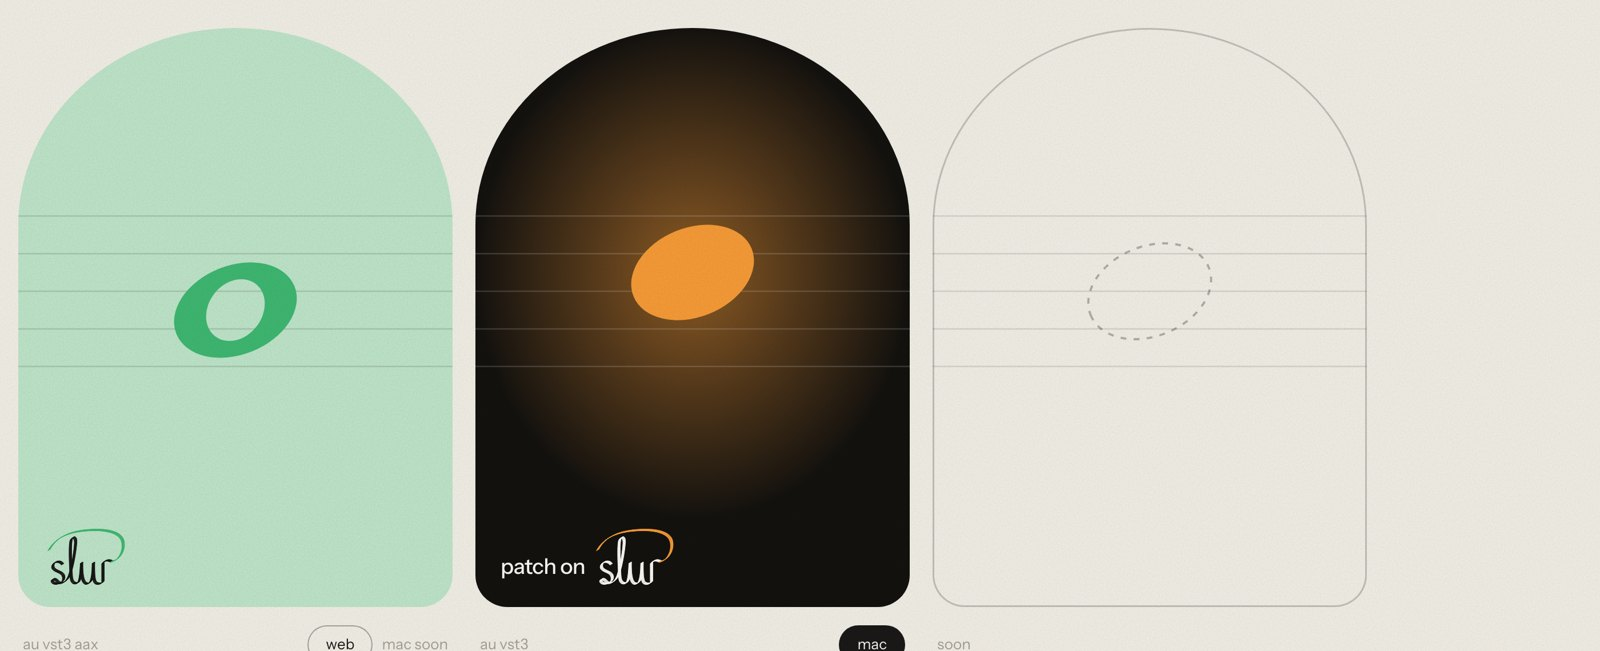
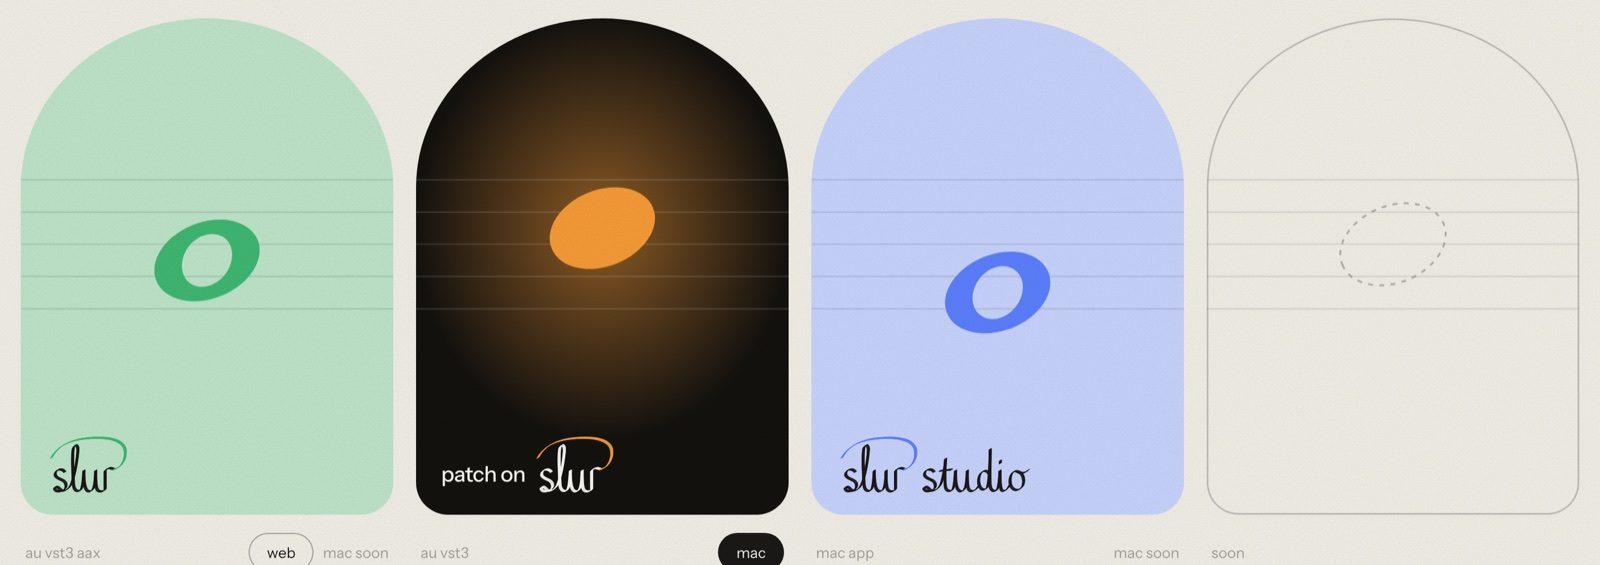
feat(web): slur studio, the third program — on the cover, in the menu and on the downloads shelf
The daw is introduced before the door: a page of the cover (the song, thirty
tracks), a cell in the pictogram menu (the staff and its blue whole note, as
the app's icon draws it), a fourth arch on the shelf and an introduction of
its own under the other two (the window, an index of plain facts, the six
region outlines). Its name is written in the house's hand: "studio" is
lettered new, beside "slur" (SlurMark studio).

The shelf's four arches spread evenly across the page, growing with it up to
480 wide; five cells in the menu give way in steps on narrower windows.

diff --git a/apps/web/app/slur.css b/apps/web/app/slur.css
@@ -133,7 +133,8 @@ html:has(.sl-one), html:has(.sl-one) body { height: 100%; overflow: hidden; over
 /* ── downloads ── */
 .sl-page { padding: 56px 36px 120px; }
 .sl-page h1 { font-size: clamp(56px, 9vw, 132px); font-weight: 500; letter-spacing: -0.045em; line-height: .9; margin-bottom: 56px; }
-.sl-shelf { display: grid; grid-template-columns: repeat(3, minmax(0, 1fr)); gap: 20px; max-width: 1180px; }
+/* four arches across the whole page: they grow with it, and past their largest the room between them does */
+.sl-shelf { display: grid; grid-template-columns: repeat(4, minmax(0, 480px)); justify-content: space-between; gap: 20px; }
 .sl-arch-tile { position: relative; aspect-ratio: 3 / 4; border-radius: 50% 50% 28px 28px / 34% 34% 28px 28px; overflow: hidden; }
 .sl-arch-tile > svg { position: absolute; inset: 0; width: 100%; height: 100%; }
 .sl-arch-tile.next { box-shadow: inset 0 0 0 1.5px rgba(26,25,23,.22); }
@@ -147,7 +148,7 @@ html:has(.sl-one), html:has(.sl-one) body { height: 100%; overflow: hidden; over
 .sl-foot-row.plain { margin: 0; padding: 22px 36px 28px; color: var(--sl-t3); }
 .sl-foot-row.plain a:hover { color: var(--sl-ink); }
 
-@media (max-width: 1000px) { .sl-shelf { grid-template-columns: repeat(2, minmax(0, 1fr)); } }
+@media (max-width: 1100px) { .sl-shelf { grid-template-columns: repeat(2, minmax(0, 1fr)); } }
 @media (max-width: 820px) {
   .sl-top { padding: 0 18px; padding-top: env(safe-area-inset-top); }
     .sl-arch { margin-top: -60px; border-radius: 50% 50% 0 0 / 64px 64px 0 0; }
@@ -168,9 +169,13 @@ html:has(.sl-one), html:has(.sl-one) body { height: 100%; overflow: hidden; over
 .sl-wall { display: block; width: 100%; height: auto; aspect-ratio: 1200 / 520; max-height: 560px;
   /* the lamps fade into the night instead of stopping at the picture's edge */
   -webkit-mask-image: radial-gradient(ellipse 62% 58% at 50% 50%, #000 62%, transparent 100%); mask-image: radial-gradient(ellipse 62% 58% at 50% 50%, #000 62%, transparent 100%); }
+/* slur studio, as it stands on the screen: the picture of a window, the size the room's is */
+.sl-shot { font-size: clamp(4.2px, .86vw, 12.4px); width: 82em; border-radius: 1.3em; overflow: hidden; background: #0E0E0E; box-shadow: 0 3em 6em -3em rgba(24,34,96,.6), 0 0 0 .08em rgba(26,25,23,.3); }
+.sl-shot img { display: block; width: 100%; height: auto; aspect-ratio: 1120 / 610; }
 .sl-about-body { max-width: 1180px; margin: 0 auto; display: grid; grid-template-columns: minmax(0, 5fr) minmax(0, 7fr); gap: 48px; align-items: start; }
 .sl-about-name { display: flex; flex-direction: column; gap: 22px; }
 .sl-about-name svg { width: min(300px, 70vw) !important; height: auto !important; }
+.sl-about-name svg.sl-two { width: min(430px, 82vw) !important; }      /* two words in the hand: wider, so the letters keep a size near the others' */
 .sl-lede-row { display: flex; align-items: flex-end; gap: 12px; font-size: clamp(28px, 3vw, 40px); font-weight: 500; letter-spacing: -0.03em; }
 .sl-lede-row span { padding-bottom: 18px; white-space: nowrap; }
 .sl-lede-row svg { width: min(240px, 50vw) !important; }
@@ -188,9 +193,12 @@ html:has(.sl-one), html:has(.sl-one) body { height: 100%; overflow: hidden; over
 .sl-families svg { margin-bottom: 8px; }
 .sl-families b { font-size: 14px; font-weight: 600; }
 .sl-families span { font-size: 12.5px; line-height: 1.5; opacity: .55; }
+.sl-families.six { grid-template-columns: repeat(6, minmax(0, 1fr)); }
+.sl-families.six svg { width: 100%; max-width: 150px; height: auto; }
 @media (max-width: 1000px) {
   .sl-about-body { grid-template-columns: minmax(0, 1fr); gap: 32px; }
   .sl-families { grid-template-columns: repeat(4, minmax(0, 1fr)); row-gap: 28px; }
+  .sl-families.six { grid-template-columns: repeat(3, minmax(0, 1fr)); }
 }
 @media (max-width: 820px) {
   .sl-about { padding: 90px 16px 110px; }
@@ -198,7 +206,7 @@ html:has(.sl-one), html:has(.sl-one) body { height: 100%; overflow: hidden; over
   .sl-about.dark .sl-about-pic { margin: -20px -16px 32px; }
   .sl-about-pic { margin-bottom: 40px; }
   .sl-index li { grid-template-columns: 110px minmax(0, 1fr); font-size: 14px; }
-  .sl-families { grid-template-columns: repeat(2, minmax(0, 1fr)); }
+  .sl-families, .sl-families.six { grid-template-columns: repeat(2, minmax(0, 1fr)); }
 }
 
 /* ── the first screen: the cover ── */
@@ -207,6 +215,7 @@ html:has(.sl-one), html:has(.sl-one) body { height: 100%; overflow: hidden; over
 .sl-cell svg { flex: none; display: block; }
 .sl-cell b { display: block; font-size: 14px; font-weight: 500; letter-spacing: -0.01em; line-height: 1.25; }
 .sl-cell small { display: block; font-size: 11.5px; color: var(--sl-t3); line-height: 1.35; margin-top: 1px; }
+.sl-cell b, .sl-cell small { white-space: nowrap; }
 .sl-cell:hover b, .sl-cell.here b { text-decoration: underline; text-underline-offset: 3px; text-decoration-thickness: 1px; }
 
 .sl:has(.sl-cover) { background: #E9E7E1; }   /* the landing's ground is the cover's, so the arch below meets it cleanly */
@@ -227,6 +236,7 @@ html:has(.sl-one), html:has(.sl-one) body { height: 100%; overflow: hidden; over
 .sl-print-page > img, .sl-print-page > svg { position: absolute; inset: 0; width: 100%; height: 100%; object-fit: cover; display: block; }
 .sl-print-page.night { background: #0D0C0B; }
 .sl-print-page.mint { background: var(--sl-mint); }
+.sl-print-page.black { background: #0E0E0E; }
 .sl-print-page.paper { background: #EDEAE2; }
 .sl-print-page.paper > img { object-fit: contain; }
 .sl-print-page .sl-win { font-size: .96cqw; }
@@ -237,6 +247,9 @@ html:has(.sl-one), html:has(.sl-one) body { height: 100%; overflow: hidden; over
 @media (prefers-reduced-motion: reduce) { .sl-floor-in { animation: none; } .sl .sl-print { animation: none; } }
 
 
+/* five cells in the row: the caption's second line gives way first, then the cells' quiet lines */
+@media (max-width: 1280px) { .sl-cover-cap { white-space: nowrap; } .sl-cover-cap i { display: none; } }
+@media (max-width: 960px) { .sl-cells { gap: 22px; } .sl-cell small { display: none; } .sl .sl-cell { align-items: center; } }
 @media (max-width: 820px) {
   .sl-cover-top { padding: 16px 16px 0; padding-top: calc(16px + env(safe-area-inset-top)); }
   .sl-cells .hide-narrow { display: none; }

diff --git a/apps/web/components/slur/Downloads.tsx b/apps/web/components/slur/Downloads.tsx
@@ -2,13 +2,13 @@
 
 import { useEffect, useState } from 'react'
 import SlurMark from './SlurMark'
-import { C, FAMILIES, ellipsePath, hz, play, wholeNotePath } from './marks'
+import { C, FAMILIES, OUTLINES, ellipsePath, hz, play, wholeNotePath } from './marks'
 import RoomPicture from './RoomPicture'
 import PictoNav from './PictoNav'
 import WallPicture from './WallPicture'
 import '@/app/slur.css'
 
-/* The catalogue. A new plug-in is one more entry: its name, its ground,
+/* The catalogue. A new program is one more entry: its name, its ground,
    its note (colour and pitch), what it runs as, and where its installers
    are published (GitHub release tags beginning with `tag`). */
 interface Plugin {
@@ -23,7 +23,9 @@ interface Plugin {
   fallback?: { url: string; version: string }   // the last known installer, used until the API answers
   web?: boolean           // also runs in the browser
   glow?: boolean
+  lettered?: boolean      // the whole name is in the hand (slur studio), not "slur" beside set words
 }
+const STUDIO_GROUND = '#C9D5FF'
 const PLUGINS: Plugin[] = [
   { name: 'slur', ground: '#BFE6CB', note: C.green, ink: C.ink, step: 3, hollow: true, formats: 'au vst3 aax', web: true },
   {
@@ -31,6 +33,7 @@ const PLUGINS: Plugin[] = [
     tag: 'patch-on-slur-',
     fallback: { url: 'https://github.com/JazzFusionPianist/BetterPlugin/releases/download/patch-on-slur-1.0.9/Patch-on-Slur-1.0.9.pkg', version: '1.0.9' },
   },
+  { name: 'slur studio', ground: STUDIO_GROUND, note: C.blue, ink: C.ink, step: 1, hollow: true, formats: 'mac app', lettered: true },
 ]
 const REPO = 'JazzFusionPianist/BetterPlugin'
 
@@ -80,8 +83,8 @@ function Tile ({ p }: { p: Plugin }) {
       </svg>
       <div className="nm" style={{ color: p.ink }}>
         {pre && <span>{pre}</span>}
-        <SlurMark height={52} ink={p.ink} arm={p.note} title={p.name} />
-        {post && <span>{post}</span>}
+        <SlurMark height={52} ink={p.ink} arm={p.note} title={p.name} studio={p.lettered} />
+        {post && !p.lettered && <span>{post}</span>}
       </div>
     </div>
   )
@@ -133,6 +136,10 @@ export default function Downloads () {
         rows={PATCH_ROWS} extra={<Families />}
         acts={(() => { const r = found['patch on slur'] ?? PLUGINS[1].fallback!; return <><a className="sl-pill paper" href={r.url}>mac</a><span className="soon">{r.version} au vst3</span></> })()} />
 
+      <About id="slur-studio" ground={STUDIO_GROUND} ink={C.ink} picture={<div className="sl-shot"><img src="/slur/daw-arrange.jpg" alt="" /></div>}
+        lede={<SlurMark className="sl-two" height={150} arm={C.blue} studio />}
+        rows={STUDIO_ROWS} extra={<Outlines />} acts={<span className="soon">mac soon</span>} />
+
       <div className="sl-foot-row plain">
         <a href="/terms">terms</a><a href="/privacy">privacy</a>
         <a href="mailto:wtsteven123@gmail.com?subject=copyright%20report">copyright</a>
@@ -160,6 +167,16 @@ const PATCH_ROWS: [string, string][] = [
   ['wires', 'draw a wire to chain prints, split l/r, m/s or into bands, sum them back'],
   ['hands', 'turn a print by hand, or give it to an lfo, a macro or a follower'],
   ['no account', 'open it and play'],
+]
+
+const STUDIO_ROWS: [string, string][] = [
+  ['patch', 'patch on slur sits on every track. au and vst3 plug-ins go in the same patch'],
+  ['slur', 'the room is a panel beside the song'],
+  ['outlines', 'a region is cut by what plays in it. drums, bass and voice are told apart before a name is read'],
+  ['say it', 'type kick -3 db and the fader moves'],
+  ['editing', 'one tool for ranges, trims and fades. crossfades. slip, shuffle, spot or grid'],
+  ['hand off', 'stems or a mix as wav, aiff, flac or m4a, for the daw the song is finished in'],
+  ['runs on', 'mac'],
 ]
 
 function About ({ id, ground, ink, dark, picture, lede, rows, extra, acts }: {
@@ -193,6 +210,33 @@ function Families () {
           <svg viewBox="-24 -24 48 48" width="48" height="48" aria-hidden="true"><path d={f.shape} fill={f.c} fillRule="evenodd" /></svg>
           <b>{f.name}</b>
           <span>{f.members}</span>
+        </div>
+      ))}
+    </div>
+  )
+}
+
+/* Slur Studio's regions, each by its outline — the way the program cuts them:
+   the pigment, and the sound in the same hue near black. */
+const SOUND = OUTLINES.map((_, k) => {
+  let seed = 11 + k * 97
+  const rnd = () => (seed = (seed * 16807) % 2147483647) / 2147483647
+  return Array.from({ length: 53 }, (_, i) => {
+    const beat = 1 - ((i * (k % 2 ? 3 : 2)) % 13) / 13
+    return Math.max(1.5, (rnd() * .55 + .45) * 30 * (k === 0 ? beat * .8 + .2 : Math.sin(Math.PI * (i + 3) / 59) * .6 + .4))
+  })
+})
+function Outlines () {
+  return (
+    <div className="sl-families six">
+      {OUTLINES.map((o, k) => (
+        <div key={o.name}>
+          <svg viewBox="0 0 120 44" width="120" height="44" aria-hidden="true">
+            <path d={o.shape} fill={o.c} />
+            {SOUND[k].map((h, i) => <rect key={i} x={7 + i * 2} y={22 - h / 2} width={1.2} height={h} fill={o.deep} />)}
+          </svg>
+          <b>{o.name}</b>
+          <span>{o.members}</span>
         </div>
       ))}
     </div>

diff --git a/apps/web/components/slur/marks.ts b/apps/web/components/slur/marks.ts
@@ -49,6 +49,20 @@ export const BREATH_WORD =
   'C 166 130, 166 112, 166 99 C 170 92, 180 90, 188 95'
 export const BREATH_ARM = 'M 188 95 C 204 94, 222 70, 216 44 C 210 20, 172 13, 130 16 C 84 19, 48 32, 30 66'
 export const BREATH_VIEWBOX = '16 14 210 150'
+/* "studio" in the same hand, for Slur Studio (the daw): the s, t and u in one
+   line, the d and i in a second, the o, the t's bar and the i's dot. Drawn in
+   the word's own box; set 200 to the right of "slur" the two make one name
+   (viewBox 16 14 506 150). Draft: Daw/design/logo draft 1. */
+export const BREATH_STUDIO = [
+  'M 64 102 C 60 94, 44 92, 40 104 C 36 116, 52 119, 60 124 C 70 130, 70 146, 56 150 C 46 153, 38 149, 38 143 C 38 138, 46 138, 52 146 ' +
+  'C 58 153, 74 150, 82 130 C 88 112, 92 84, 93 68 C 91 92, 91 120, 92 136 C 93 147, 98 151, 106 150 C 112 149, 116 140, 118 98 ' +
+  'C 118 124, 119 151, 132 151 C 144 151, 147 132, 148 98 C 148 126, 148 144, 154 149 C 160 153, 170 150, 176 138',
+  'M 203 106 C 198 95, 180 96, 177 120 C 175 142, 188 154, 198 142 C 204 132, 206 80, 206 44 C 206 80, 205 120, 206 136 C 207 147, 212 151, 219 150 C 225 149, 229 140, 231 98 C 231 120, 231 140, 235 148 C 239 153, 249 150, 256 134',
+  'M 276 101 C 263 95, 255 112, 257 130 C 259 148, 277 154, 287 140 C 295 128, 291 104, 276 101 C 284 107, 296 105, 303 97',
+  'M 79 99 L 108 96',
+  'M 232 73 L 232 80',
+]
+export const BREATH_STUDIO_VIEWBOX = '16 14 506 150'
 
 /** A broad nib held at 32°: the stroke is the path drawn again at every
     point along the nib's edge, so downstrokes swell and joins go to a hair. */
@@ -88,4 +102,16 @@ export const FAMILIES: { name: string; members: string; c: string; shape: string
   { name: 'utility', members: 'gain mix l/r m/s bands side', c: '#FBFAF7', shape: 'M -18 -2 H 18 V 2 H -18 Z M -2 -18 H 2 V 18 H -2 Z' },
   { name: 'control', members: 'lfo macro follow', c: '#F89C38', shape: 'M -18 0 A 18 18 0 1 0 18 0 A 18 18 0 1 0 -18 0 Z M -9 0 A 9 9 0 1 1 9 0 A 9 9 0 1 1 -9 0 Z' },
   { name: 'spectral', members: 'carve match vocode', c: '#B79CFF', shape: 'M -18 -18 H -12 V 18 H -18 Z M -7 -10 H -1 V 18 H -7 Z M 4 -18 H 10 V 18 H 4 Z M 14 -4 H 20 V 18 H 14 Z' },
+]
+
+/* Slur Studio's regions, each cut by what plays in it (drawn in a 120 x 44
+   box) and in its instrument's pigment, as the program draws them; the
+   words are some of the track names it reads the instrument from. */
+export const OUTLINES: { name: string; members: string; c: string; deep: string; shape: string }[] = [
+  { name: 'drums', members: 'kick snare hat tom room', c: '#2C62AC', deep: '#000326', shape: 'M0 0H120V44H0Z' },
+  { name: 'bass', members: 'bass sub 808', c: '#744898', deep: '#10001E', shape: 'M0 0H120V37A7 7 0 0 1 113 44H7A7 7 0 0 1 0 37Z' },
+  { name: 'keys', members: 'piano rhodes synth pad', c: '#2B8767', deep: '#001004', shape: 'M0 0H114V7H120V44H0Z' },
+  { name: 'guitar', members: 'gtr acoustic strat', c: '#BD7929', deep: '#2F0F00', shape: 'M0 0H111L120 9V44H0Z' },
+  { name: 'voice', members: 'vox bgv ad libs', c: '#DD6C63', deep: '#400707', shape: 'M0 7A7 7 0 0 1 7 0H113A7 7 0 0 1 120 7V44H0Z' },
+  { name: 'effects', members: 'riser impact air', c: '#D2C8B1', deep: '#322D22', shape: 'M0 5A5 5 0 0 0 5 0H115A5 5 0 0 0 120 5V39A5 5 0 0 0 115 44H5A5 5 0 0 0 0 39Z' },
 ]

diff --git a/apps/web/components/slur/PictoNav.tsx b/apps/web/components/slur/PictoNav.tsx
@@ -1,13 +1,13 @@
 'use client'
 
-import { C } from './marks'
+import { C, wholeNotePath } from './marks'
 
 /* The pictogram nav — a small drawing, a word and two quiet lines per cell —
    the same on every page before you log in, so the pictures stay with the
    words wherever you go. `here` marks the page you are on; `onLogIn` opens
    the door in place when the page has one, otherwise the link carries it. */
 
-type Here = 'slur' | 'patch' | 'downloads'
+type Here = 'slur' | 'patch' | 'studio' | 'downloads'
 
 export default function PictoNav ({ here, onLogIn, showDownloads = true }: {
   here?: Here
@@ -33,6 +33,9 @@ export default function PictoNav ({ here, onLogIn, showDownloads = true }: {
       {cell('patch', '/downloads#patch-on-slur',
         <svg width="30" height="30" viewBox="0 0 30 30" aria-hidden="true"><rect x="2" y="2" width="26" height="26" fill="#8C5A3A" /><g fill="none" stroke={C.white} strokeWidth="1.1"><circle cx="15" cy="15" r="9" /><circle cx="15" cy="15" r="5.5" /><circle cx="15" cy="15" r="2.2" /></g></svg>,
         'patch on slur', 'the wall', 'no account')}
+      {cell('studio', '/downloads#slur-studio',
+        <svg width="30" height="30" viewBox="0 0 30 30" aria-hidden="true"><rect x="2" y="2" width="26" height="26" fill="#0E0E0E" /><g fill="rgba(236,234,228,.26)">{[9.6, 12.3, 15, 17.7, 20.4].map(y => <rect key={y} x="2" y={y - .25} width="26" height=".5" />)}</g><path d={wholeNotePath(15, 15, 6.6)} fill={C.blue} fillRule="evenodd" /></svg>,
+        'slur studio', 'the song', 'tracks patch slur')}
       {showDownloads && cell('downloads', '/downloads',
         <svg width="30" height="30" viewBox="0 0 30 30" aria-hidden="true"><path d="M 4 29 V 13 A 11 11 0 0 1 26 13 V 29 Z" fill="none" stroke={C.ink} strokeWidth="1.6" /><path d="M 15 11 V 22 M 10.5 17.5 L 15 22 L 19.5 17.5" fill="none" stroke={C.ink} strokeWidth="1.6" strokeLinecap="round" strokeLinejoin="round" /></svg>,
         'downloads', 'mac', 'au vst3 aax')}

diff --git a/apps/web/components/slur/SlurMark.tsx b/apps/web/components/slur/SlurMark.tsx
@@ -1,15 +1,17 @@
-import { BREATH_ARM, BREATH_VIEWBOX, BREATH_WORD, C, nibOffsets } from './marks'
+import { BREATH_ARM, BREATH_STUDIO, BREATH_STUDIO_VIEWBOX, BREATH_VIEWBOX, BREATH_WORD, C, nibOffsets } from './marks'
 
 const NIB = nibOffsets()
 
 /** The Slur Studio mark: "slur" written in one broad-nib stroke, the r's
-    arm returning over the word in the arm colour. Width follows height. */
-export default function SlurMark ({ height = 40, ink = C.ink, arm = C.blue, className, title = 'slur' }: {
+    arm returning over the word in the arm colour. Width follows height.
+    With `studio` the second word follows in the same hand: the daw's name. */
+export default function SlurMark ({ height = 40, ink = C.ink, arm = C.blue, className, title, studio = false }: {
   height?: number
   ink?: string
   arm?: string
   className?: string
   title?: string
+  studio?: boolean
 }) {
   const stroke = (d: string, color: string) => (
     <g fill="none" stroke={color} strokeWidth={1.3} strokeLinecap="round" strokeLinejoin="round">
@@ -17,10 +19,11 @@ export default function SlurMark ({ height = 40, ink = C.ink, arm = C.blue, clas
     </g>
   )
   return (
-    <svg className={className} viewBox={BREATH_VIEWBOX} height={height} width={Math.round(height * 210 / 150)}
-      role="img" aria-label={title} style={{ display: 'block', overflow: 'visible' }}>
+    <svg className={className} viewBox={studio ? BREATH_STUDIO_VIEWBOX : BREATH_VIEWBOX} height={height} width={Math.round(height * (studio ? 506 : 210) / 150)}
+      role="img" aria-label={title ?? (studio ? 'slur studio' : 'slur')} style={{ display: 'block', overflow: 'visible' }}>
       {stroke(BREATH_WORD, ink)}
       {stroke(BREATH_ARM, arm)}
+      {studio && <g transform="translate(200 0)">{BREATH_STUDIO.map((d, i) => <g key={i}>{stroke(d, ink)}</g>)}</g>}
     </svg>
   )
 }

diff --git a/apps/web/components/slur/Cover.tsx b/apps/web/components/slur/Cover.tsx
@@ -8,7 +8,7 @@ import { FAMILIES } from './marks'
 
 /* The first screen: one landscape print on an empty ground, turning its
    pages with hard cuts — Patch on Slur drawn as a diagram, the room, the
-   families, the shelf. It leans toward the pointer; a click turns the
+   song in Slur Studio, the families, the shelf. It leans toward the pointer; a click turns the
    page. The caption rides the top left, the name travels along the floor. */
 
 interface Page { name: string; what: string; tone: string; body: React.ReactNode }
@@ -16,6 +16,7 @@ interface Page { name: string; what: string; tone: string; body: React.ReactNode
 const PAGES: Page[] = [
   { name: 'patch on slur', what: 'night drive, fourteen prints wired', tone: 'night', body: <PatchDiagram /> },
   { name: 'slur', what: 'the room: chat, stems, dates, who is in', tone: 'mint', body: <RoomPicture /> },
+  { name: 'slur studio', what: 'the song: thirty tracks, the chorus in the cycle', tone: 'black', body: <img src="/slur/daw-arrange.jpg" alt="Slur Studio with a song open" /> },
   {
     name: 'patch on slur', what: 'eight families, told apart by shape', tone: 'night',
     body: (
@@ -32,7 +33,7 @@ const PAGES: Page[] = [
       </svg>
     ),
   },
-  { name: 'downloads', what: 'one arch per plug-in', tone: 'paper', body: <img src="/slur/shelf.jpg" alt="The downloads shelf" /> },
+  { name: 'downloads', what: 'one arch per program', tone: 'paper', body: <img src="/slur/shelf.jpg" alt="The downloads shelf" /> },
 ]
 const DWELL = 3200
 const pad = (n: number) => String(n).padStart(2, '0')
